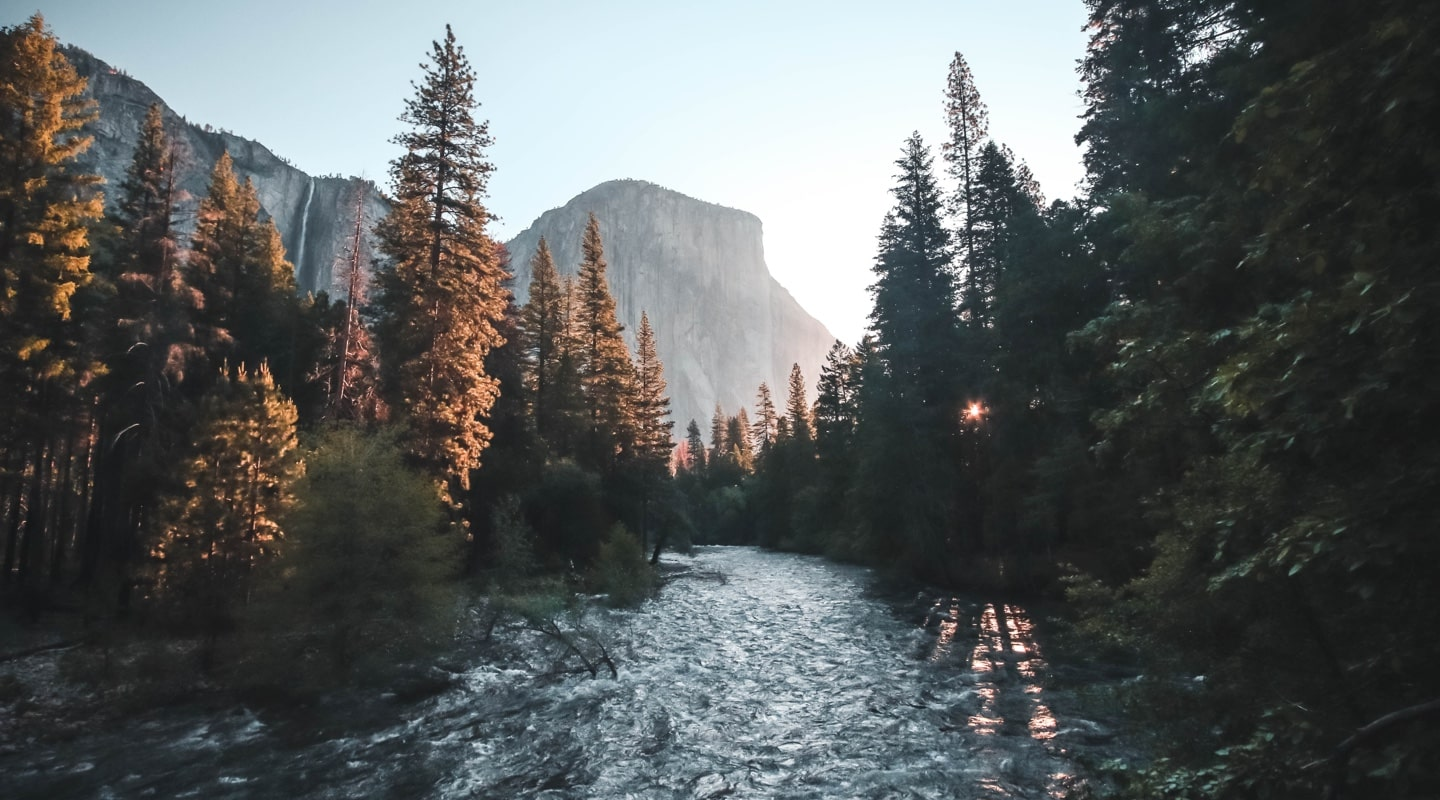
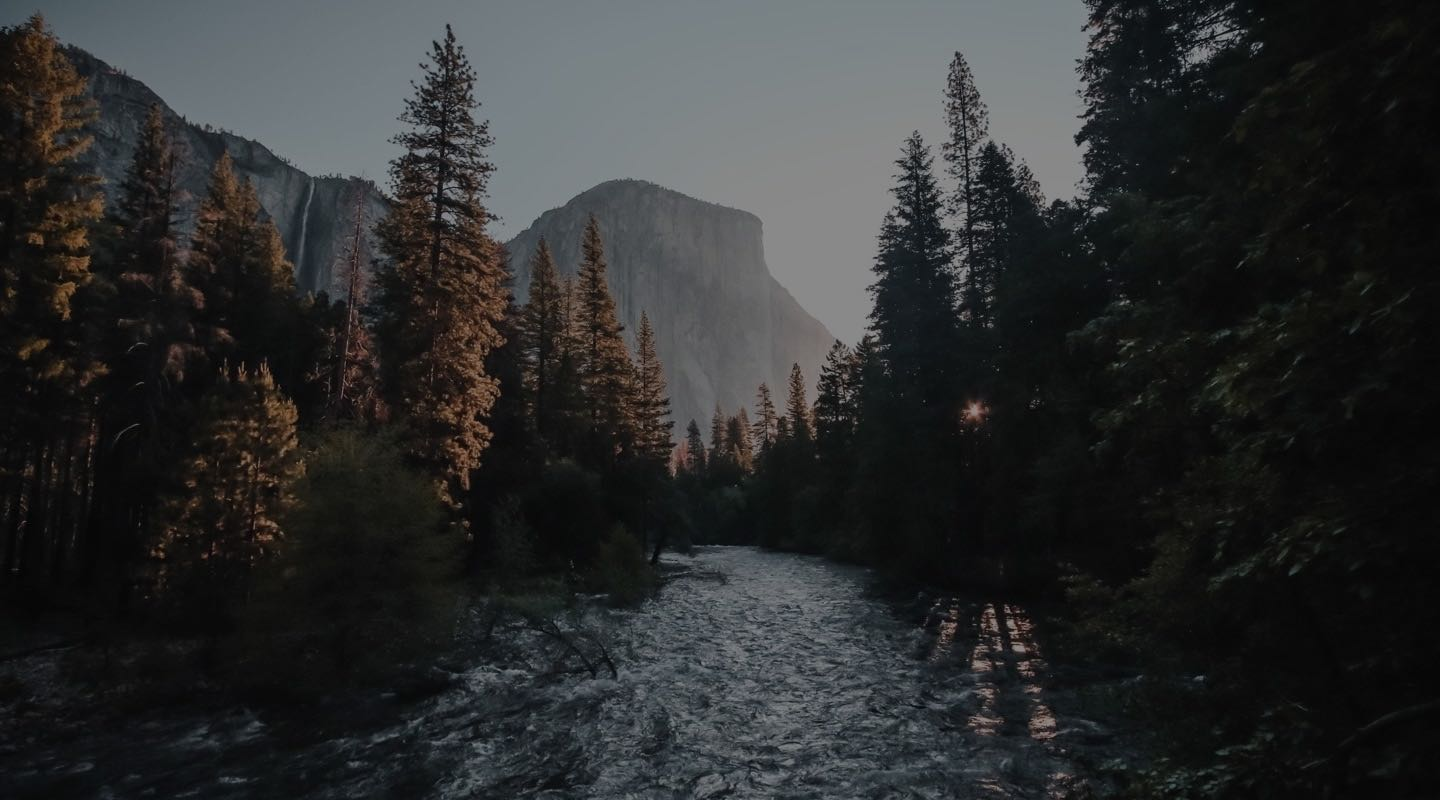
set up HTML backbone and finish Quote area

diff --git a/src/app/page.module.scss b/src/app/page.module.scss
@@ -4,20 +4,17 @@ $mobile-and-below: 550px;
 
 .wrapper {
   display: grid;
-  min-height: 100%;
-  grid-template-areas:
-    'header'
-    'main'
-    'profile'
-    'footer';
-  grid-template-rows: 660px 730px 1fr 350px;
-
   position: relative;
-  overflow: hidden;
+  height: 800px;
+  grid-template-areas:
+    'upper'
+    'lower';
+  grid-template-rows: 400px 400px;
 
-  // --padding-identation: 160px;
-  // --padding-identation-tablet: 38px;
-  // --padding-identation-mobile: 16px;
+  padding-left: 165px;
+  padding-right: 165px;
+  padding-top: 56px;
+  padding-bottom: 98px;
 
   // @media (max-width: $tablet-and-below) {
   //   grid-template-rows: 540px 1000px 1fr 250px;
@@ -26,4 +23,12 @@ $mobile-and-below: 550px;
   // @media (max-width: $mobile-and-below) {
   //   grid-template-rows: 480px 1100px 1fr 250px;
   // }
+}
+
+.background {
+  position: absolute;
+  left: 0;
+  top: 0;
+  width: 100%;
+  height: auto;
 }

diff --git a/src/app/page.js b/src/app/page.js
@@ -1,6 +1,32 @@
+'use client';
+
+import React from 'react';
+import styles from './page.module.scss';
 import Image from 'next/image';
-import styles from './page.module.css';
+
+import Quote from '@/components/Quote';
+import Time from '@/components/Time';
+import Expand from '@/components/Expand';
 
 export default function Home() {
-  return <main className={styles.main}></main>;
+  const [isExpanded, setIsExpanded] = React.useState(false);
+
+  function toggleExpand() {
+    setIsExpanded(!isExpanded);
+  }
+
+  return (
+    <main className={styles.wrapper}>
+      <Image
+        className={styles.background}
+        src="/desktop/bg-image-daytime.jpg"
+        width={1440}
+        height={800}
+        alt="A streak inside a forest used as background picture"
+      />
+      {!isExpanded && <Quote />}
+      <Time toggleExpand={toggleExpand} />
+      {isExpanded && <Expand />}
+    </main>
+  );
 }

diff --git a/src/components/Quote/Quote.js b/src/components/Quote/Quote.js
@@ -1,0 +1,32 @@
+'use client';
+
+import React from 'react';
+import useSWR from 'swr';
+
+import RefreshIcon from '../RefreshIcon';
+import styles from './Quote.module.scss';
+
+async function fetcher(endpoint) {
+  const response = await fetch(endpoint);
+  const json = await response.json();
+
+  return json;
+}
+
+const ENDPOINT =
+  'https://api.quotable.io/quotes/random?minLength=100&maxLength=140';
+
+function Quote() {
+  const { data } = useSWR(ENDPOINT, fetcher);
+  console.log(data);
+
+  return (
+    <div className={styles.wrapper}>
+      <p className={styles.quote}>{`"${data[0].content}"`}</p>
+      <h5 className={styles.author}>{data[0].author}</h5>
+      <RefreshIcon />
+    </div>
+  );
+}
+
+export default Quote;

diff --git a/src/components/RefreshIcon/RefreshIcon.js b/src/components/RefreshIcon/RefreshIcon.js
@@ -1,0 +1,21 @@
+import React from 'react';
+import styles from './RefreshIcon.module.scss';
+
+function RefreshIcon() {
+  return (
+    <svg
+      className={styles.svg}
+      xmlns="http://www.w3.org/2000/svg"
+      width="18"
+      height="18"
+    >
+      <path
+        fill="#FFF"
+        d="M7.188 10.667a.208.208 0 01.147.355l-2.344 2.206a5.826 5.826 0 009.578-2.488l2.387.746A8.322 8.322 0 013.17 14.94l-2.149 2.022a.208.208 0 01-.355-.148v-6.148h6.52zm7.617-7.63L16.978.958a.208.208 0 01.355.146v6.23h-6.498a.208.208 0 01-.147-.356L13 4.765A5.825 5.825 0 003.43 7.26l-2.386-.746a8.32 8.32 0 0113.76-3.477z"
+        opacity="0.5"
+      ></path>
+    </svg>
+  );
+}
+
+export default RefreshIcon;

diff --git a/src/app/layout.js b/src/app/layout.js
@@ -1,17 +1,19 @@
-import { Inter } from 'next/font/google'
-import './globals.css'
+import { Inter } from 'next/font/google';
+import './globals.scss';
 
-const inter = Inter({ subsets: ['latin'] })
+export const inter = Inter({
+  subsets: ['latin'],
+  display: 'swap',
+});
 
 export const metadata = {
-  title: 'Create Next App',
-  description: 'Generated by create next app',
-}
+  title: 'Clock App',
+};
 
 export default function RootLayout({ children }) {
   return (
     <html lang="en">
       <body className={inter.className}>{children}</body>
     </html>
-  )
+  );
 }

diff --git a/src/app/globals.scss b/src/app/globals.scss
@@ -44,10 +44,12 @@ h6 {
 }
 
 // Global baseline styles
-// :root {
-//   --dark-purple: hsl(273deg 85% 13%);
-//   --eucaplyptus: hsl(150deg 100% 63%);
-//   --davys-grey: hsl(271deg 12% 34%);
-//   --ghost-white: hsl(276deg 100% 99%);
-//   --white: hsl(0deg 0% 100%);
-// }
+:root {
+  --black: hsl(0deg 0% 0%);
+  --white: hsl(0deg 0% 100%);
+  --button-normal: hsl(0deg 0% 19%);
+  --button-active: hsl(0deg 0% 60%);
+
+  --font-size-body-regular: 18px;
+  --line-height-body-regular: 28px;
+}

diff --git a/src/components/Quote/Quote.module.scss b/src/components/Quote/Quote.module.scss
@@ -1,0 +1,19 @@
+.wrapper {
+  position: relative;
+  color: var(--white);
+  width: 540px;
+}
+
+.quote {
+  font-size: var(--font-size-body-regular);
+  font-weight: 400;
+  line-height: var(--line-height-body-regular);
+  margin-bottom: 13px;
+}
+
+.author {
+  font-size: var(--font-size-body-regular);
+  font-weight: 700;
+  line-height: var(--line-height-body-regular);
+  margin-bottom: 13px;
+}

diff --git a/src/components/RefreshIcon/RefreshIcon.module.scss b/src/components/RefreshIcon/RefreshIcon.module.scss
@@ -1,0 +1,10 @@
+.svg {
+  &:hover {
+    path {
+      opacity: 1;
+    }
+  }
+  position: absolute;
+  top: 10px;
+  right: -16px;
+}

diff --git a/src/components/Expand/Expand.js b/src/components/Expand/Expand.js
@@ -1,0 +1,7 @@
+import React from 'react';
+
+function Expand() {
+  return <div></div>;
+}
+
+export default Expand;

diff --git a/src/components/Time/Time.js b/src/components/Time/Time.js
@@ -1,0 +1,7 @@
+import React from 'react';
+
+function Time() {
+  return <div></div>;
+}
+
+export default Time;

diff --git a/src/components/RefreshIcon/index.js b/src/components/RefreshIcon/index.js
@@ -1,0 +1,2 @@
+export * from './RefreshIcon';
+export { default } from './RefreshIcon';

diff --git a/src/components/Expand/index.js b/src/components/Expand/index.js
@@ -1,0 +1,2 @@
+export * from './Expand';
+export { default } from './Expand';
